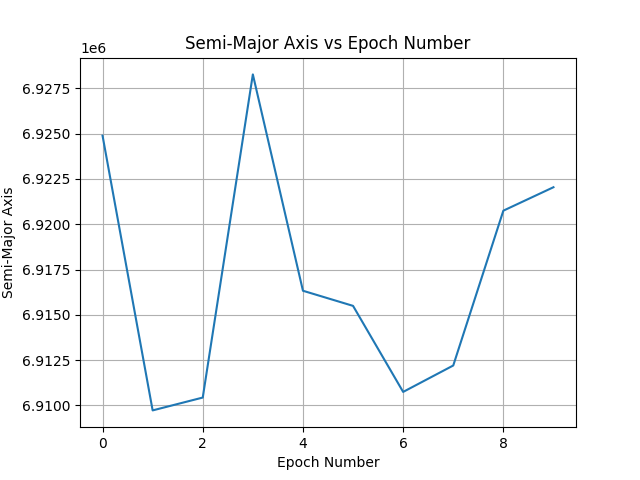
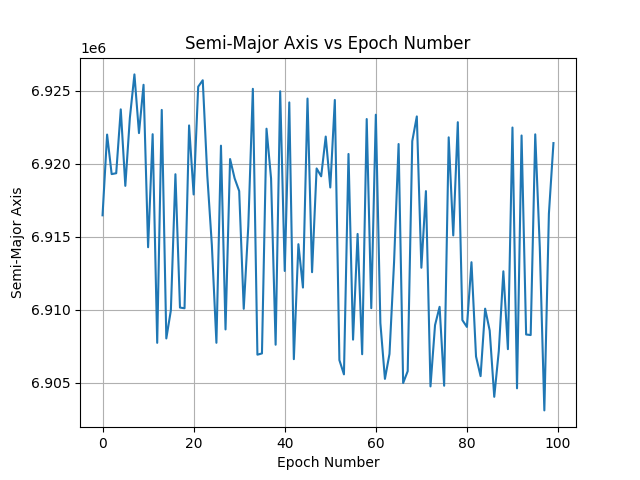
It works?!

diff --git a/Predicting_CD_3.1.py b/Predicting_CD_3.1.py
@@ -16,22 +16,22 @@ from tudatpy.numerical_simulation import environment_setup, propagation_setup
 from tudatpy.astro import element_conversion, time_conversion
 from tudatpy import constants
 from tudatpy.util import result2array
-from tudatpy.astro.time_conversion import DateTime
+from tudatpy.astro.time_conversion import DateTime, datetime_to_tudat, date_time_from_epoch, datetime_to_python
 import sys
 
 """-------------------------------"""
 """Inputs"""
-TLE1_number = 5000
+TLE1_number = 7000
 TLE2_number = 8000
 
 Mass = 2.2
 
 reference_area = 0.08  # Average projection area of a 3U CubeSat
-drag_coefficient_lower = 1.6
-drag_coefficient_upper = 1.7
+drag_coefficient_lower = 1.5
+drag_coefficient_upper = 1.8
 
 
-itterations = 1
+itterations = 4
 
 radiation_pressure_coefficient = 1.2
 
@@ -54,7 +54,7 @@ Comp_Epochs = [TLE1_number + (i+1)*int((TLE2_number-TLE1_number)/Comparisons) fo
 
 
 # Open the file
-with open('TLE-Data_C3.txt', 'r') as file:
+with open('/workspaces/Re-entryPrediction/TLE-Data_C3.txt', 'r') as file:
     # Read lines two at a time
     lines = file.readlines()
     TLE_sets = [(lines[i].strip(), lines[i + 1].strip()) for i in range(0, len(lines), 2)]
@@ -81,7 +81,7 @@ def convert_epoch_day_to_date(epoch_year, epoch_day):
 
     return month, day, hour
 # Open the file
-with open('TLE-Data_C3.txt', 'r') as file:
+with open('/workspaces/Re-entryPrediction/TLE-Data_C3.txt', 'r') as file:
     # Read lines two at a time
     lines = file.readlines()
     TLE_sets = [(lines[i], lines[i + 1]) for i in range(0, len(lines), 2)]
@@ -309,28 +309,12 @@ central_bodies = ["Earth"]
 # This dictionary is finally input to the propagation setup to create the acceleration models.
 
 # Define accelerations acting on Delfi-C3 by Sun and Earth.
-accelerations_settings_delfi_c3 = dict(
-    Sun=[
-        propagation_setup.acceleration.radiation_pressure(),
-        propagation_setup.acceleration.point_mass_gravity()
-    ],
-    Earth=[
-        propagation_setup.acceleration.spherical_harmonic_gravity(5, 5),
-        propagation_setup.acceleration.aerodynamic()
-    ],
-    Moon=[
-        propagation_setup.acceleration.point_mass_gravity()
-    ],
-    Mars=[
-        propagation_setup.acceleration.point_mass_gravity()
-    ],
-    Venus=[
-        propagation_setup.acceleration.point_mass_gravity()
-    ]
-)
+
+
+
 
 # Create global accelerations settings dictionary.
-acceleration_settings = {"Delfi-C3": accelerations_settings_delfi_c3}
+
 
 # Create acceleration models.
 
@@ -479,6 +463,34 @@ for i in range(itterations):
     environment_setup.add_aerodynamic_coefficient_interface(
     bodies, "Delfi-C3", aero_coefficient_settings)
 
+    aero_coefficient_settings = environment_setup.aerodynamic_coefficients.constant(
+    reference_area, [drag_coefficient, 0, 0]
+    )
+    environment_setup.add_aerodynamic_coefficient_interface(
+        bodies, "Delfi-C3", aero_coefficient_settings)
+    accelerations_settings_delfi_c3 = dict(
+        Sun=[
+            propagation_setup.acceleration.radiation_pressure(),
+            propagation_setup.acceleration.point_mass_gravity()
+        ],
+        Earth=[
+            propagation_setup.acceleration.spherical_harmonic_gravity(5, 5),
+            propagation_setup.acceleration.aerodynamic()
+        ],
+        Moon=[
+            propagation_setup.acceleration.point_mass_gravity()
+        ],
+        Mars=[
+            propagation_setup.acceleration.point_mass_gravity()
+        ],
+        Venus=[
+            propagation_setup.acceleration.point_mass_gravity()
+        ]
+    )
+
+    # Create global accelerations settings dictionary.
+    acceleration_settings = {"Delfi-C3": accelerations_settings_delfi_c3}
+
     acceleration_models = propagation_setup.create_acceleration_models(
     bodies,
     acceleration_settings,
@@ -545,8 +557,8 @@ for i in range(itterations):
 
     #This makes a list of the predicted semi-major axis at the epochs that are compared to the TLE data
     SM_Comp_lst = []
-    for i in range(len(indices_in_sim_epochs)):
-        SM_Comp_lst.append(SMA[indices_in_sim_epochs[i]])
+    for i in range(len(indices_in_Output_Epochs)):
+        SM_Comp_lst.append(SMA[indices_in_Output_Epochs[i]])
 
     #This makes a list of the actual semi-major axis at the epochs that are compared to the TLE data
     ACT_Semi_major_lst = []
